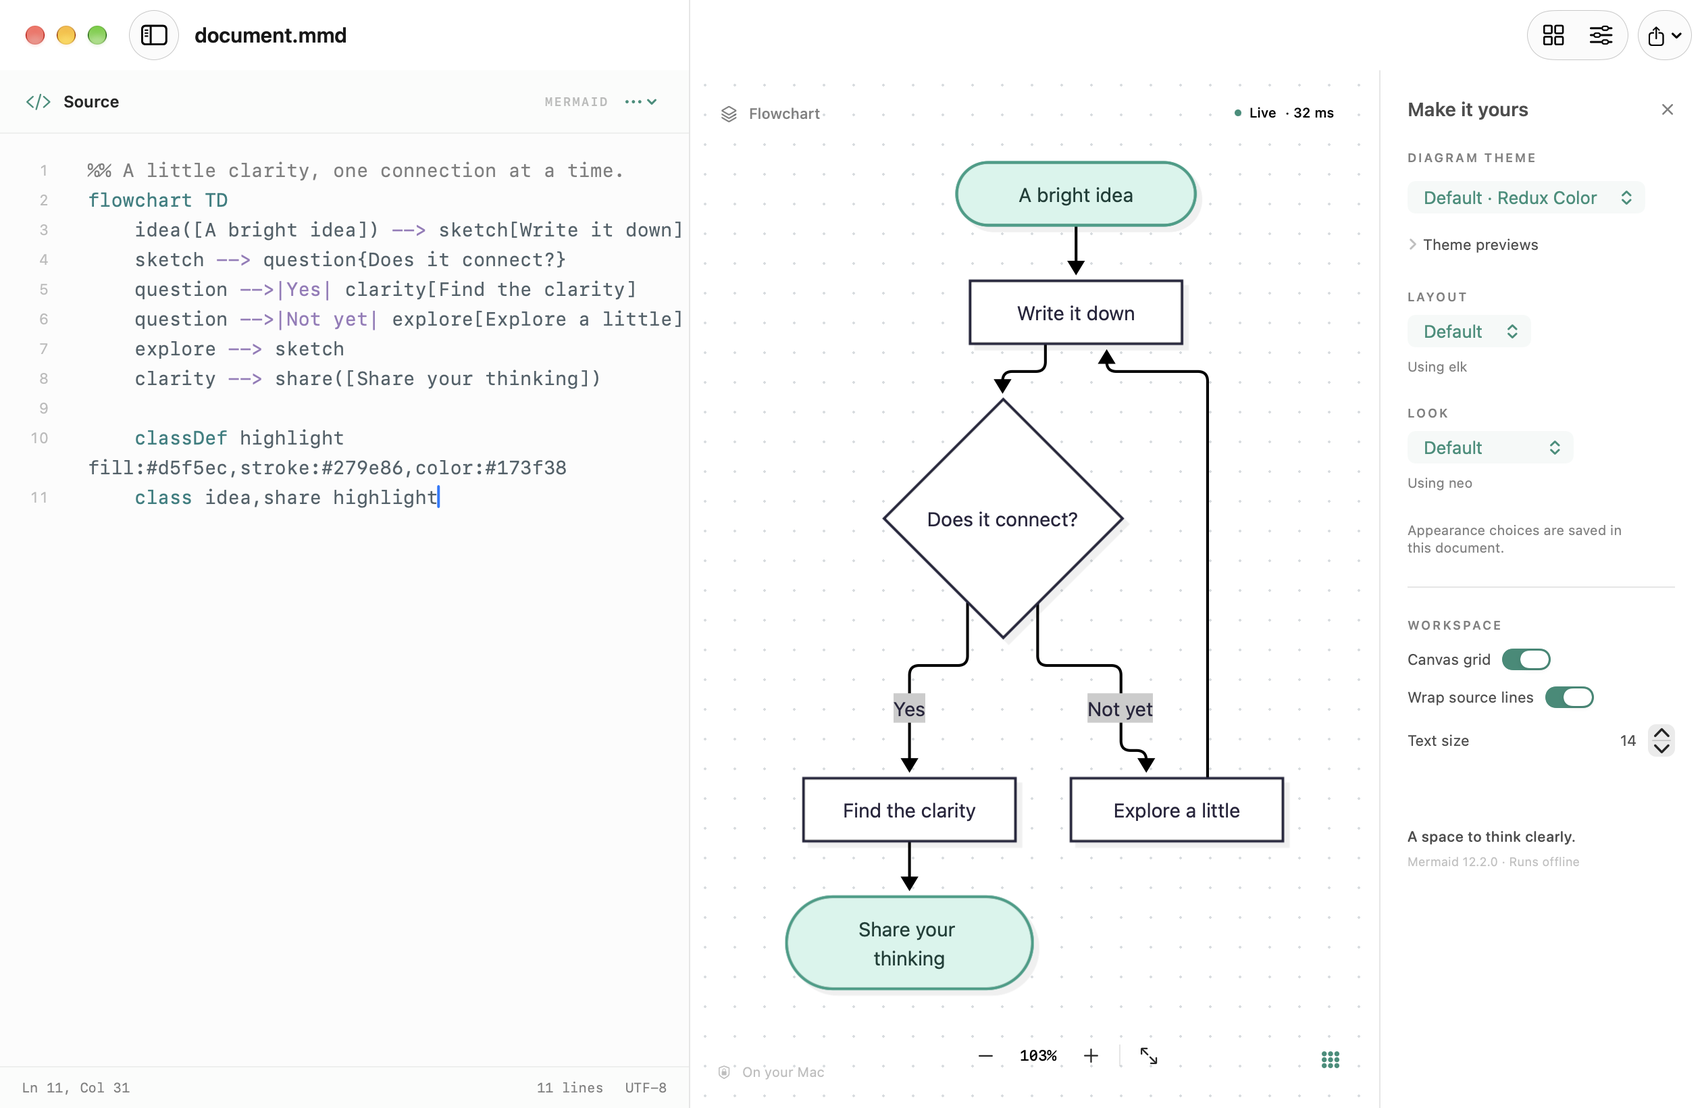
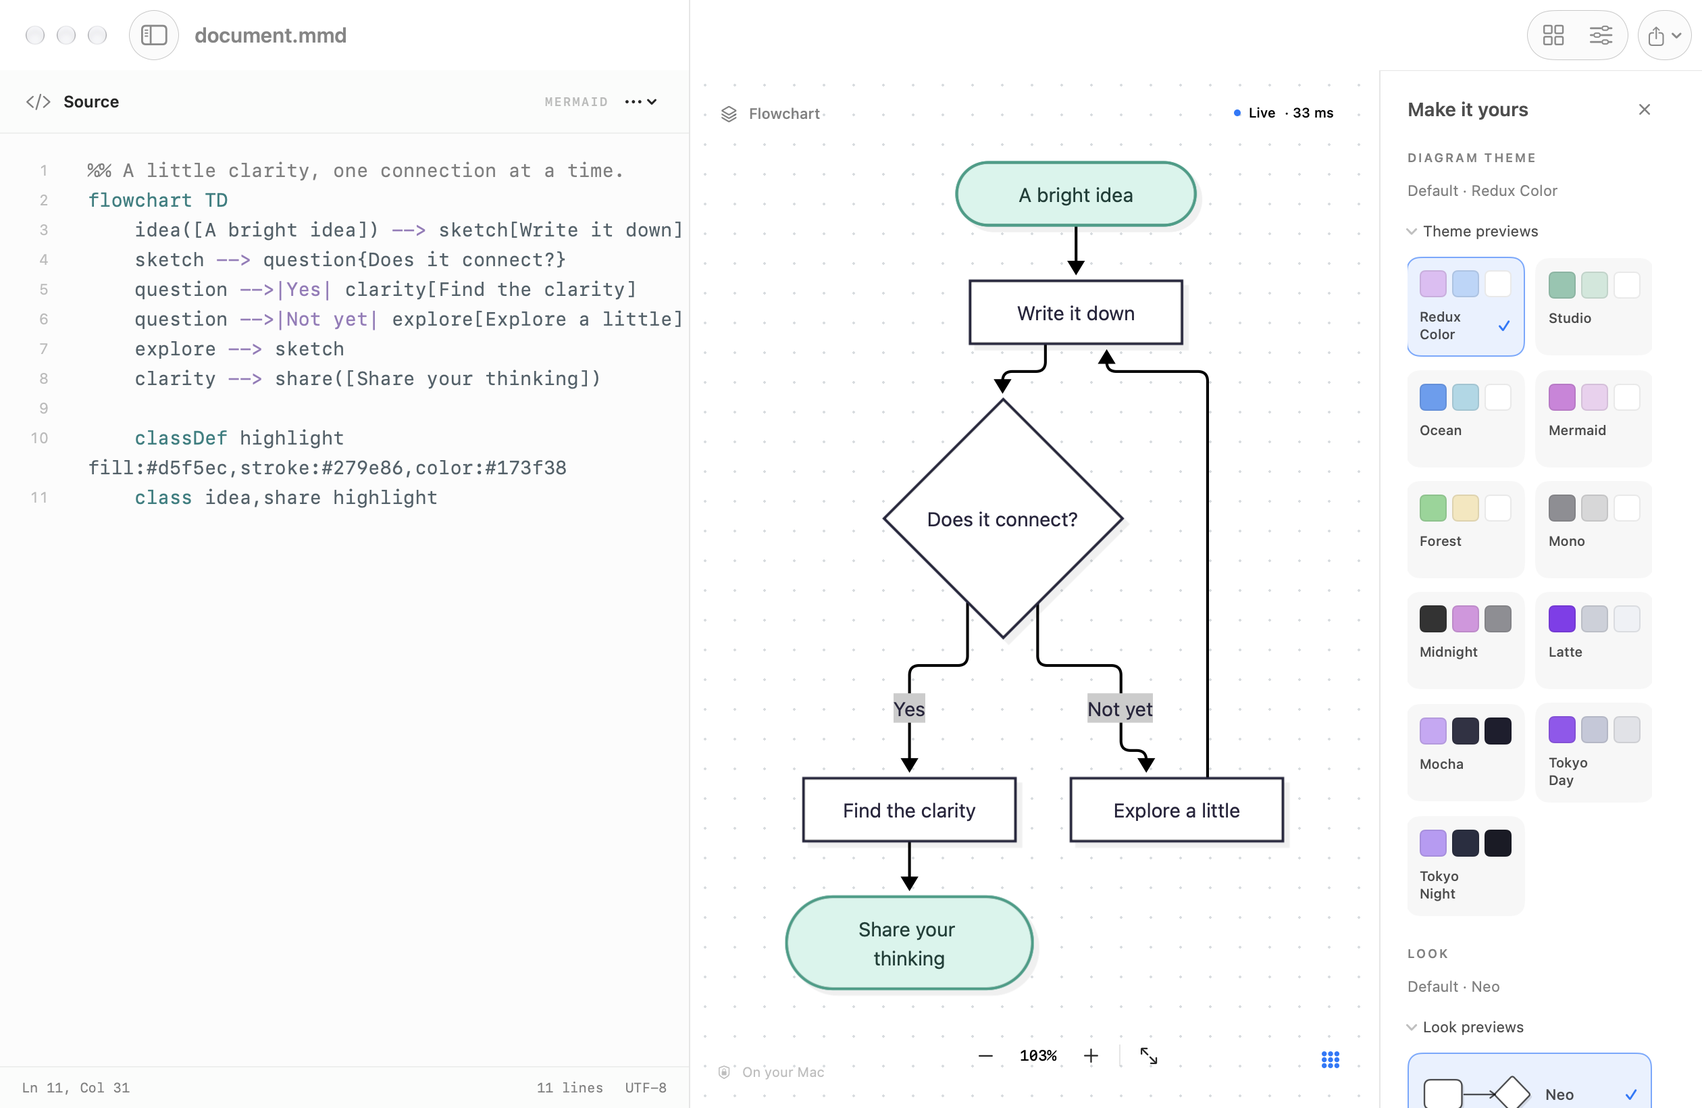
Document alpha release evidence and outstanding UI checks

diff --git a/docs/VALIDATION-v0.2.0-alpha.md b/docs/VALIDATION-v0.2.0-alpha.md
@@ -1,90 +1,118 @@
 # v0.2.0-alpha validation
 
-The final optimized packaged run completed with `SUCCESS`. This record covers the six implementation issues in [milestone v0.2.0-alpha](https://github.com/opendream/macmermaid/milestone/1).
+The optimized packaged test suite completed with `SUCCESS` on 18 October 2026.
+The alpha is released with incomplete interactive UI validation: implementation
+and automated checks do not establish that every milestone acceptance criterion
+has passed. Issues #10, #11, and #12 retain the outstanding checks below.
 
-Tested implementation: [59c9b5e](https://github.com/opendream/macmermaid/commit/59c9b5e4107230577fd2edc588e591c61bed3833).
-The committed implementation files match the input hashes from the passing run.
+Tested implementation: [48c8706](https://github.com/opendream/macmermaid/commit/48c8706b4ae6c7cc883c8b8ebdd2f31a58c109b6).
+Subsequent release documentation changes do not alter these compiled inputs.
+The [release](https://github.com/opendream/macmermaid/releases/tag/v0.2.0-alpha)
+includes the app archive, checksums, and a validation evidence archive.
 
 ## Environment and reproducibility
 
-Checked on 18 October 2026 using arm64 macOS 27.0.1 (26A434), Swift 6.4,
-and Node.js 22.19.0. The deployment target remains macOS 26; a macOS 26 runtime
-was not available for this run.
+- Apple Silicon, arm64 macOS 27.0.1 (26A434), Swift 6.4, Node.js 22.19.0.
+- Deployment target: macOS 26. No macOS 26 runtime or Intel runtime was tested.
+- Mermaid 12.2.0, artifact SHA-256:
[1 lines of base64/hex data omitted]
+- YAML 2.9.1, vendored locally with its pinned build inputs and audit metadata.
+- Source-input SHA-256:
[1 lines of base64/hex data omitted]
+- Packaged release executable SHA-256:
[1 lines of base64/hex data omitted]
 
-The renderer is Mermaid 12.2.0, with SHA-256
[1 lines of base64/hex data omitted]
-The vendored YAML 2.9.1 bundle rebuilds to its audited checksum using the pinned
-npm lockfile. Ordinary builds and rendering need no npm installation.
-
-
-Local evidence from the completed run:
-
-- `build/v12-final-unit.log` — 9 Swift and 8 JavaScript tests passed.
-- `build/v12-final-build.log` — optimized build and 97-notice source/packaged checks passed.
-- `build/smoke-v12-final-r8/results.txt` — completed with `SUCCESS`; exports and 20 normal/minimum workspace captures are in the same directory.
-- `build/v12-tested-inputs.json` — exact input-file and executable hashes.
-
[2 lines of base64/hex data omitted]
 The source digest hashes sorted `path + NUL + file-SHA256 + newline` records for
-`Package.swift`, `Info.plist`, files under `Sources`, `Tests`, `scripts` (excluding
-`node_modules`), `third-party`, and `THIRD_PARTY_NOTICES.md`. Build outputs remain
-local; the source digest and checked-in screenshot make this record attributable
-without committing temporary logs or test documents.
+`Package.swift`, `Info.plist`, `THIRD_PARTY_NOTICES.md`, and files under `Sources`,
+`Tests`, `scripts` (excluding `node_modules`), and `third-party`. The evidence
+archive contains the complete input manifest. The isolated smoke app is copied
+from the release app, given a separate identifier and preferences, and re-signed;
+its signature therefore differs from the downloadable app.
 
-## Milestone coverage
+Fresh local evidence is under `build/release-v0.2.0-alpha/`:
 
-| Issue | Implementation and evidence |
+- `unit.log`: 9 Swift and 8 JavaScript tests passed.
+- `build.log`: optimized build and source/packaged checks for 97 notices passed.
+- `smoke-r2/results.txt`: final `SUCCESS`, with exports and workspace captures.
+- `tested-inputs.json`: exact input-file and release executable hashes.
+
+The preceding smoke attempt stopped at a foreground-focus assertion after its
+renderer/export checks. Commit 48c8706 removes that requirement from checks that
+address native document/editor APIs directly. A completely fresh run then passed.
+This change does not establish keyboard or accessibility behavior.
+
+## Milestone audit
+
+| Issue | Result and remaining boundary |
 | --- | --- |
-| [#8](https://github.com/opendream/macmermaid/issues/8) Renderer | Local 12.2.0 distribution, native defaults, shared version metadata, strict rendering/CSP, 97 component notices, top-level and nested source-map inventory, and separate ELK source/notice audit. |
-| [#9](https://github.com/opendream/macmermaid/issues/9) Documents | YAML AST editing preserves comments, unrelated/nested settings, Unicode and body text; source drives inspector state. Tests cover malformed input, Default, native undo/redo, autosave, save/reopen, and two independent documents. All six custom palettes also render on a standalone page containing only upstream Mermaid. |
-| [#10](https://github.com/opendream/macmermaid/issues/10) Inspector | Redux Color default plus ten alternatives, supported layout/look choices, Default/Custom, and effective source configuration. Dagre connection choices produce three distinct sets of paths; ineffective controls are hidden. App/editor preferences remain independent. |
-| [#11](https://github.com/opendream/macmermaid/issues/11) Templates | Horizontal and vertical swimlanes plus UML use cases; 15 templates total. Tests cover UTF-16 highlighting, names, actual renderer types, and every template/theme combination. The gallery uses the native new-document action. |
-| [#12](https://github.com/opendream/macmermaid/issues/12) Validation | Swift/JavaScript units, optimized packaged WebKit run, native document lifecycle, supported configurations, source precedence, errors/rapid edits, exports and visual review. Project-plan date spacing and mind-map branch colors have regression assertions. |
-| [#13](https://github.com/opendream/macmermaid/issues/13) Documentation | README, usage/development guides, dependency procedure, version/counts, and a fresh unedited default-theme app capture. Relative links and GitHub-rendered Markdown structure checked. |
+| [#8 Renderer](https://github.com/opendream/macmermaid/issues/8) | Fulfilled: pinned local 12.2.0, native defaults, centralized metadata, dependency audit, license checks, error recovery and export gating. |
+| [#9 Documents](https://github.com/opendream/macmermaid/issues/9) | Fulfilled: comment-preserving YAML edits, portable palettes, source-driven selection, undo/redo, autosave, save/reopen, independent documents and workspace preferences. Native lifecycle checks use direct APIs. |
+| [#10 Inspector](https://github.com/opendream/macmermaid/issues/10) | Implemented and automated configuration checks pass. Keep open for live light/dark and minimum-size operation, keyboard/accessibility checks, and interaction with the new collapsible theme/look selectors. |
+| [#11 Templates](https://github.com/opendream/macmermaid/issues/11) | All three new templates render/export, with highlighting and accurate labels. Keep open until all three gallery actions are exercised in the live app and shown to preserve the current document. Shared action code and generic document-isolation tests are not that complete interaction check. |
+| [#12 Validation](https://github.com/opendream/macmermaid/issues/12) | Automated matrix, lifecycle, exports, recovery and licenses pass; representative exports reviewed. Keep open for the outstanding live UI/keyboard/accessibility and gallery checks. |
+| [#13 Documentation](https://github.com/opendream/macmermaid/issues/13) | Updated defaults, portable settings, 15 templates, visual selectors, current native screenshot, build/distribution instructions and explicit validation limits. |
 
-## Test coverage
+## Passing coverage
 
-- `./scripts/test.sh`: 9 Swift tests and 8 JavaScript tests.
-- `./scripts/build.sh release`: optimized app, source and packaged license checks.
-- Packaged suite: 15 templates × 11 themes (165 combinations), plus supported
-  layout/look combinations, three distinct Dagre curve paths, and source overrides.
+- `./scripts/test.sh`: 9 Swift and 8 JavaScript tests.
+- `./scripts/build.sh release`: optimized app and source/packaged license checks.
+- Packaged WebKit: 15 templates × 11 themes = 165 combinations, plus supported
+  layout/look configurations, three distinct Dagre connection geometries, source
+  precedence, Default removal, Custom state and malformed-frontmatter recovery.
 - 105 SVG/PNG/PDF export operations: every template in Redux Color and Mocha,
-  four fixed palettes, and recovery output. PDFs are decoded and rasterized for
-  review; PNGs are decoded; fixed-palette background samples are checked.
-- Native editing, undo/redo, autosave, manual frontmatter edits, save/reopen,
-  independent open documents, normal/minimum windows, and app light/dark settings.
-  The smoke run starts the real inspector open; visible toolbar interactions are
-  checked separately, avoiding reliance on the incomplete in-process accessibility tree.
+  four fixed palettes, and recovery output. PNG decoding, PDF decoding/rasterization,
+  palette/background samples and geometry assertions supplement visual inspection.
+- Native document open, Unicode edit, autosave, appearance undo/redo, manual
+  frontmatter edits, save/reopen and two independent documents, through native APIs.
+- App/editor preference isolation and System/Light/Dark configuration assertions.
 - Local script URLs and a CSP-blocked fetch check the offline policy. The network
-  interface was not disabled. Six standalone palette renders use no app helpers.
+  interface was not disabled. Six custom palettes render in standalone Mermaid
+  without MacMermaid helpers.
+- Syntax errors preserve the last valid preview and disable exports; rapid edits
+  recover to the latest source; empty source clears the preview.
 
-Visual review covered both swimlane orientations, UML use cases, flowcharts,
-sequence/class diagrams, project plans, mind maps, pie charts, and timelines.
-Readability fixes include weekly project-plan ticks and explicit standard color
-scales for custom palettes, avoiding Mermaid's derived black mind-map branches.
+Fresh visual inspection covered both swimlane orientations, UML use cases,
+sequence and class diagrams, project-plan date spacing, and mind-map output,
+including PDF rasterizations. Labels and arrows in those samples were readable.
+The exact portable-appearance example in the usage guide also rendered in a
+separate headless WebKit check with the pinned bundle; its SVG and PNG were
+inspected. Relative documentation links and all six pages' GitHub-rendered HTML
+structure were checked. An interactive browser preview was unavailable.
+The light, normal-size workspace capture used in the README is an unedited native
+AppKit capture of the current build with a non-private sample diagram.
 
-Visible native checks exercised layout selection, conditional connection controls,
-keyboard undo/redo, theme selection with the editor hidden, theme previews, the
-15-item template gallery, and the horizontal swimlane inspector. These complement
-in-process lifecycle checks; they are not a complete accessibility audit.
+The suite produced 20 normal/minimum-size workspace captures, but some dark
+captures omit the WebKit canvas and flatten toolbar materials. These are not proof
+that the live dark/minimum-size interface passes, nor evidence by themselves of a
+runtime canvas defect. Final live inspection was not completed. Prior-build UI
+observations are not substituted for validation of the current selectors.
 
-## Limits
+## Known limitations
 
-- Mermaid 12 geometry is intentional; no v11 visual compatibility layer is present.
-- Explicit ELK layout fails for mind maps in this upstream version, so the inspector
-  retains their native layout. Swimlanes also keep their own algorithm.
-- A swimlane return arrow directly into a decision diamond can detach upstream.
-  The supplied examples return to a review rectangle before the decision instead.
+- Mermaid 12 geometry is intentional; no v11 compatibility layer is present.
+- Large swimlanes can be slow. A separate 85-step, 106-connection, 29-lane case
+  took approximately 12–13 seconds; it preserved source content but produced two
+  malformed empty lanes and overlapping long role headings. That user document
+  and its private artifacts are not included in the release evidence.
+- A return arrow directly into a swimlane decision diamond can detach upstream.
+  The supplied templates return to a review rectangle before the decision.
+- Fit has a 5% minimum zoom, so a very wide diagram can remain clipped in a narrow
+  preview. SVG export retains the full diagram.
+- Explicit ELK layout fails for mind maps in this engine, so the inspector keeps
+  their native layout. Swimlanes also retain their dedicated layout.
 - YAML aliases, anchors, merge keys and legacy init directives require source edits;
   the inspector explains this and leaves them intact. Unrelated typography variables
-  survive Default and may keep the displayed theme Custom.
-- Some native diagram strokes, including the timeline baseline, retain upstream
-  colors. Custom palettes do not override every diagram-specific drawing rule.
-- External screen capture intermittently failed during further gallery-window checks.
-  Horizontal template opening was observed directly; all three new template sources
-  passed rendering/export checks and use the same native new-document action.
-- AppKit snapshots flatten some Liquid Glass materials. The README image is an
-  unedited capture; it is layout evidence, not a replacement for live app inspection.
-- Builds are locally ad hoc signed. No release tag, binary publication, Developer ID
-  signing, notarization, merge, or macOS 26 runtime validation is implied.
+  survive Default and can leave the theme displayed as Custom.
+- Some native diagram strokes retain upstream colors; palette variables do not
+  override every diagram-specific drawing rule.
+- Look cards are fixed native sample illustrations, not rendered thumbnails of
+  the current document. They demonstrate drawing style, independently of its palette.
+- Full live keyboard/accessibility, light/dark and minimum-window validation remains
+  open in the milestone, along with the three gallery-action checks.
+
+## Distribution
+
+`MacMermaid-v0.2.0-alpha-macos-arm64.zip` is an Apple Silicon build for macOS 26+.
+It is **ad hoc signed, not Developer ID signed or notarized**. macOS may block its
+first launch. No Intel binary, macOS 26 runtime pass, or notarization is claimed.
+The source build remains available through the documented build procedure.

diff --git a/docs/DEVELOPMENT.md b/docs/DEVELOPMENT.md
@@ -45,6 +45,7 @@ Build outputs go into `.build/` and `build/`, both ignored by Git. Once developm
 | `Sources/MacMermaid/MermaidDocument.swift` | UTF-8 document loading and saving |
 | `Sources/MacMermaid/PreviewSession.swift` | WebKit bridge, rendering state, and exports |
 | `Sources/MacMermaid/DiagramPalette.swift` | Swift access to shared palette tokens |
+| `Sources/MacMermaid/LookPreview.swift` | Fixed sample illustrations for the look selector |
 | `Sources/MacMermaid/RendererMetadata.swift` | Shared renderer version metadata |
 | `Sources/MacMermaid/Resources/Web/appearance.js` | Comment-preserving YAML edits and inspector state |
 | `Sources/MacMermaid/Resources/Web/palettes.json` | Shared portable palette tokens |
@@ -91,7 +92,7 @@ A final `SUCCESS` line confirms completion. Check that the file belongs to the r
 
 The suite exercises every template/theme combination, supported layouts and looks, actual Dagre curve geometry, error recovery, rapid edits, and SVG/PNG/PDF exports. It checks project-plan date-label spacing and mind-map branch colors, and saves PDF thumbnails for visual review. A separate page containing only Mermaid verifies the six custom palettes without app helpers. A blocked fetch and local script URLs check the preview's offline policy.
 
-Native documents cover Unicode editing, autosave, appearance undo/redo, manual frontmatter edits, save/reopen, and independent choices in two documents. The explicit smoke run starts its documents with the real inspector visible; external native UI inspection separately checks opening it and interacting with controls. Appearance checks cover System/Light/Dark settings and keep editor appearance independent of diagram palettes. The test changes its own app appearance, not macOS appearance settings.
+Native documents cover Unicode editing, autosave, appearance undo/redo, manual frontmatter edits, save/reopen, and independent choices in two documents. These checks address document/editor APIs directly and do not require foreground keyboard focus. The explicit smoke run starts its documents with the real inspector visible; separately inspect opening it, interacting with controls, keyboard operation, and accessibility. Appearance assertions cover System/Light/Dark settings and keep editor appearance independent of diagram palettes. The test changes its own app appearance, not macOS appearance settings.
 
 Use a fresh output directory to keep evidence from different builds separate:
 
@@ -108,7 +109,7 @@ bundle avoids affecting the main app's preferences.
 
 Inspect the native app in light and dark appearances at a normal window size and at the minimum size. The smoke suite captures 1260×820 workspaces and inspector-visible 960×540 workspaces; the minimum width with the inspector closed is 820.
 
-Smoke snapshots use AppKit view caching, which can flatten Liquid Glass materials. They are useful layout evidence, but do not replace inspecting the live window and exported files.
+Smoke snapshots use AppKit view caching, which can flatten Liquid Glass materials or omit WebKit canvas contents. They are limited layout evidence and do not establish live-window usability or accessibility. Inspect the live window and exported files separately; record any checks that could not be completed.
 
 The [README image](images/macmermaid.png) is an unedited light-appearance workspace snapshot with Redux Color and native ELK/Neo defaults from the packaged smoke suite. When updating documentation images, use a real app capture with a sample diagram and no private information.
 
@@ -125,7 +126,9 @@ python3 scripts/check-licenses.py --app build/MacMermaid.app
 
 The build runs these checks before compilation and after packaging. They verify the renderer/YAML checksums, central version metadata, source-map package coverage, notice inventory, and packaged files. Updating a checksum alone is not a dependency license audit.
 
-Local builds use ad hoc signing. Developer ID signing and notarization are separate steps for distributing a notarized app to other Macs; the build script does not perform them. There are currently no prebuilt GitHub releases.
+Local builds use ad hoc signing. The [v0.2.0-alpha release](https://github.com/opendream/macmermaid/releases/tag/v0.2.0-alpha) provides an Apple Silicon ZIP built this way. It is not Developer ID signed or notarized; the build script does not perform those distribution steps. macOS 26 remains the deployment target, but this alpha was runtime-tested on macOS 27.0.1.
+
+The icon generator uses a neutral connected-node design. The build regenerates the ICNS when either icon script changes, rather than retaining a stale cached icon.
 
 ## References
 

diff --git a/README.md b/README.md
@@ -4,11 +4,11 @@ A native macOS editor for [Mermaid](https://mermaid.js.org/) diagrams, with live
 
 Write diagram source, see the result as you type, and export it as SVG, PNG, or PDF. MacMermaid combines a native text editor and document workflow with Liquid Glass controls.
 
-![MacMermaid editing a flowchart, with a live preview and the default Redux Color, ELK, and Neo settings in the inspector.](docs/images/macmermaid.png)
+![MacMermaid editing a flowchart with a live preview and the collapsible theme palette selector.](docs/images/macmermaid.png)
 
 *Light app appearance with the Mermaid 12 defaults.*
 
-**Status:** v0.2.0-alpha development. Build from source using the instructions below; prebuilt downloads are not available yet.
+**Status:** [v0.2.0-alpha prerelease](https://github.com/opendream/macmermaid/releases/tag/v0.2.0-alpha). This alpha includes known rendering limitations and incomplete interactive UI validation; see the [validation record](docs/VALIDATION-v0.2.0-alpha.md).
 
 ## Features
 
@@ -17,12 +17,19 @@ Write diagram source, see the result as you type, and export it as SVG, PNG, or 
 - **Local documents** in `.mmd` and `.mermaid` formats, with autosave, recent files, multiple windows, and native window tabs.
 - **Templates and themes:** 15 starting templates and 11 diagram themes, including Redux Color, Catppuccin Latte/Mocha, and Tokyo Day/Night. Horizontal/vertical swimlanes and UML use cases are included.
 - **Document appearance:** portable theme, layout, look, and supported connection settings saved in Mermaid frontmatter.
+- **Visual selectors:** collapsible theme palettes and look samples, with controls and selections following your macOS accent color.
 - **Flexible exports:** SVG, PNG, and vector PDF, plus SVG copying to the clipboard.
 - **Offline rendering:** Mermaid is bundled with the app. Rendering needs no account, server, or CDN.
 
 ## Get started
 
-### Requirements
+### Download
+
+The [alpha release](https://github.com/opendream/macmermaid/releases/tag/v0.2.0-alpha) includes `MacMermaid-v0.2.0-alpha-macos-arm64.zip` for **Apple Silicon Macs running macOS 26 or later**, plus checksums and validation evidence. Extract the archive and move `MacMermaid.app` to Applications.
+
+This build is ad hoc signed, **not Developer ID signed or notarized**. macOS may block its first launch. Build from source if you prefer a local build; no Intel binary is provided in this alpha. Runtime validation was performed on macOS 27.0.1, not macOS 26.
+
+### Build requirements
 
 - macOS 26 or later.
 - Xcode 26 or later, with Swift 6.2 or later available to command-line builds.
@@ -57,6 +64,9 @@ See the [user guide](docs/USAGE.md) for shortcuts, canvas controls, themes, and 
 - Rendering uses the bundled **Mermaid 12.2.0** engine; syntax support follows that version.
 - Remote images, clickable diagram links, and remotely loaded icon packs are disabled.
 - Exports are available only when the current source renders successfully.
+- Large swimlanes can be slow, produce malformed empty lanes, or overlap long lane headings. Return arrows directly into swimlane decision diamonds can detach; the supplied templates avoid that pattern.
+- Fit currently has a 5% minimum zoom, which can clip very wide diagrams in a narrow preview. SVG export retains the full diagram.
+- Look cards use fixed sample illustrations, not miniature renders of the current document.
 
 ## Help and contributions
 
